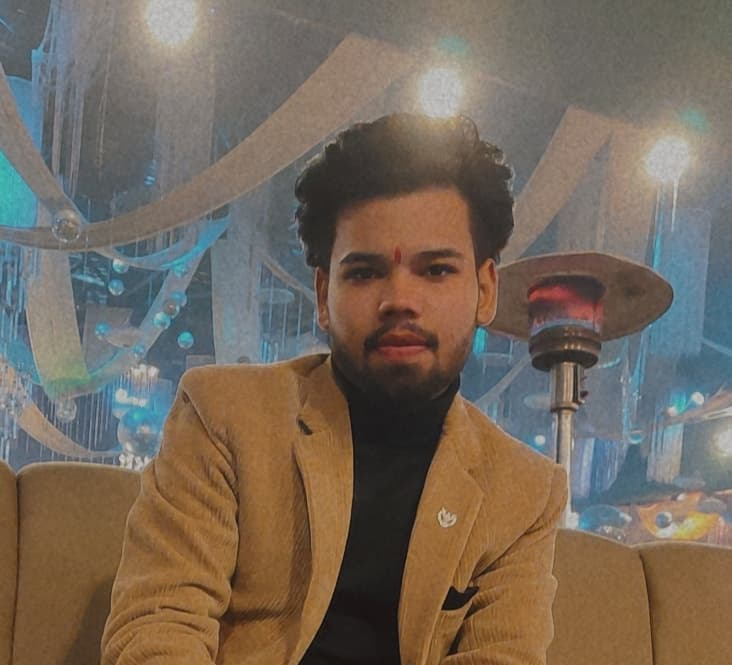
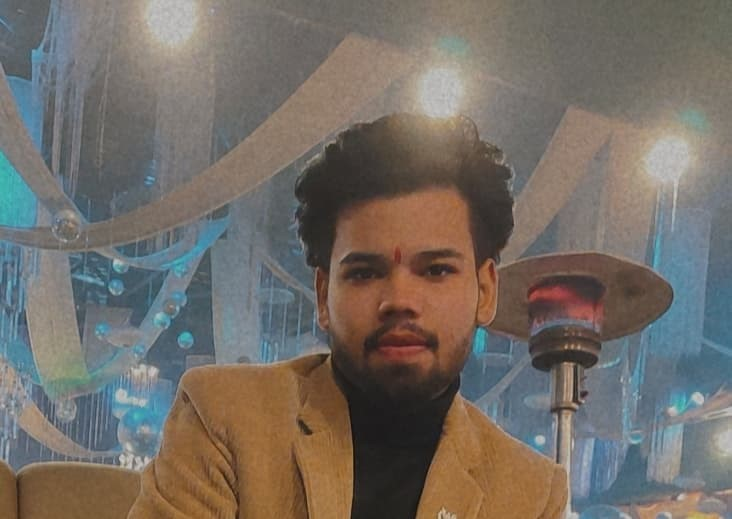
some-1

diff --git a/src/components/Team Page/Team.jsx b/src/components/Team Page/Team.jsx
@@ -404,7 +404,7 @@ function Team() {
           <div className="flex justify-center mb-16">
             <div className="bg-white rounded-lg shadow-xl p-6 w-72 text-center transform hover:scale-105 transition-transform">
               <div className="flex flex-col items-center">
-                <div className="w-30 h-30 rounded-full overflow-hidden border-2 border-gray-200 mb-4">
+                <div className="w-28 h-28 rounded-full overflow-hidden border-2 border-gray-200 mb-4">
                   <img
                     src="/vishvajeet.jpg"
                     alt="Prof. Samsher"
@@ -425,7 +425,7 @@ function Team() {
           <div className="flex justify-center mb-16">
             <div className="bg-white rounded-lg shadow-xl p-6 w-72 text-center transform hover:scale-105 transition-transform">
               <div className="flex flex-col items-center">
-                <div className="w-30 h-30 rounded-full overflow-hidden border-2 border-gray-200 mb-4">
+                <div className="w-28 h-28 rounded-full overflow-hidden border-2 border-gray-200 mb-4">
                   <img
                     src="/prakhar yadav secetray 2.jpg"
                     alt="Prof. Samsher"
@@ -449,7 +449,7 @@ function Team() {
               <div className="flex gap-6 flex-wrap">
                 <div className="bg-white rounded-lg shadow-xl p-6 w-72 text-center transform hover:scale-105 transition-transform">
                   <div className="flex flex-col items-center">
-                    <div className="w-30 h-30 rounded-full overflow-hidden border-2 border-gray-200 mb-4 relative">
+                    <div className="w-28 h-28 rounded-full overflow-hidden border-2 border-gray-200 mb-4 relative">
                       <img
                         src="/chayan - CHAYAN UPADHYAY BTech.jpg"
                         alt="Mrs. Anju Verma"
@@ -464,7 +464,7 @@ function Team() {
 
                 <div className="bg-white rounded-lg shadow-xl p-6 w-72 text-center transform hover:scale-105 transition-transform">
                   <div className="flex flex-col items-center">
-                    <div className="w-30 h-30 rounded-full overflow-hidden border-2 border-gray-200 mb-4 relative">
+                    <div className="w-28 h-28 rounded-full overflow-hidden border-2 border-gray-200 mb-4 relative">
                       <img
                         src="/secMangamnet.jpg"
                         alt="Mrs. Anju Verma"
@@ -485,7 +485,7 @@ function Team() {
               <div className="flex gap-6 flex-wrap">
                 <div className="bg-white rounded-lg shadow-xl p-6 w-72 text-center transform hover:scale-105 transition-transform">
                   <div className="flex flex-col items-center">
-                    <div className="w-30 h-30 rounded-full overflow-hidden border-2 border-gray-200 mb-4 relative">
+                    <div className="w-28 h-28 rounded-full overflow-hidden border-2 border-gray-200 mb-4 relative">
                       <img
                         src="/dineshdixitsec.jpg"
                         alt="Mrs. Anju Verma"
@@ -501,7 +501,7 @@ function Team() {
 
                 <div className="bg-white rounded-lg shadow-xl p-6 w-72 text-center transform hover:scale-105 transition-transform">
                   <div className="flex flex-col items-center">
-                    <div className="w-30 h-30 rounded-full overflow-hidden border-2 border-gray-200 mb-4 relative">
+                    <div className="w-28 h-28 rounded-full overflow-hidden border-2 border-gray-200 mb-4 relative">
                       <img
                         src="/shreyash gupta joijnt technicxal secretary.jpg"
                         alt="Mrs. Anju Verma"

diff --git a/src/components/Competetion/Comepetition.jsx b/src/components/Competetion/Comepetition.jsx
@@ -169,8 +169,8 @@ function Comepetition() {
   const searchImageForWindow = useCallback(
     (imageEl) => {
       const src = imageEl.src;
-      // const relativeSrc = src.replace("http://localhost:5173", "");
-      const relativeSrc = src.replace("https://www.technika.org.in", "");
+      const relativeSrc = src.replace("http://localhost:5173", "");
+      // const relativeSrc = src.replace("https://www.technika.org.in", "");
       const info = competitionInfo.find((item) => item.img === relativeSrc);
       console.log(info)
       setwindowinfo(info);
